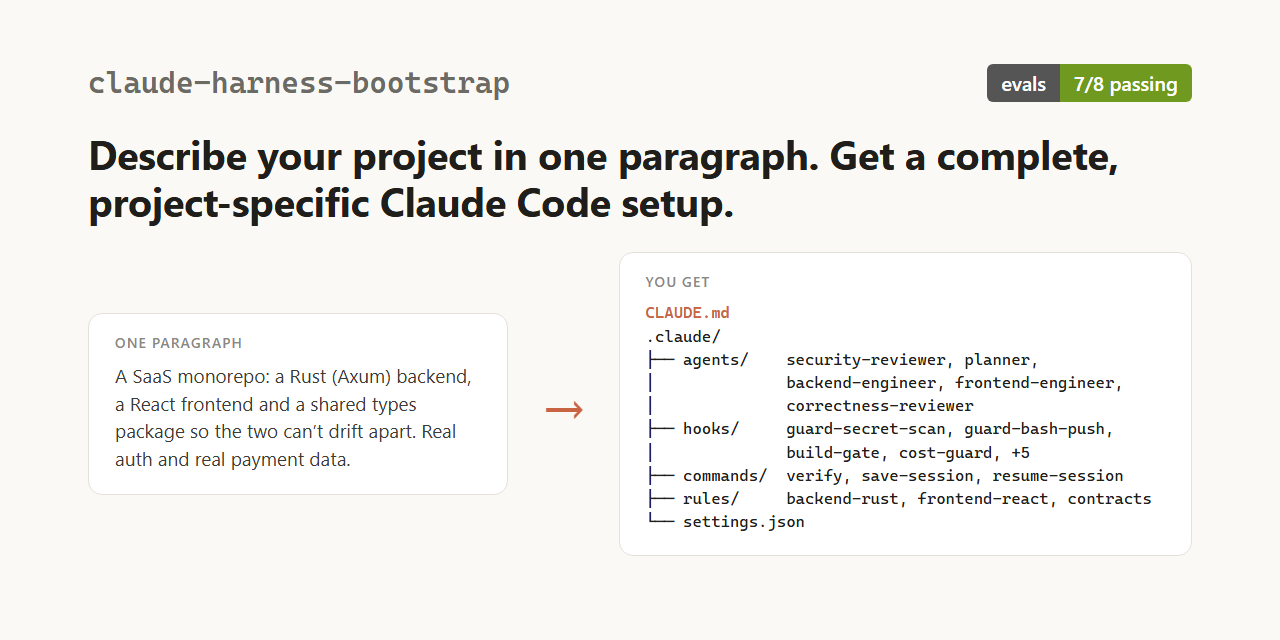
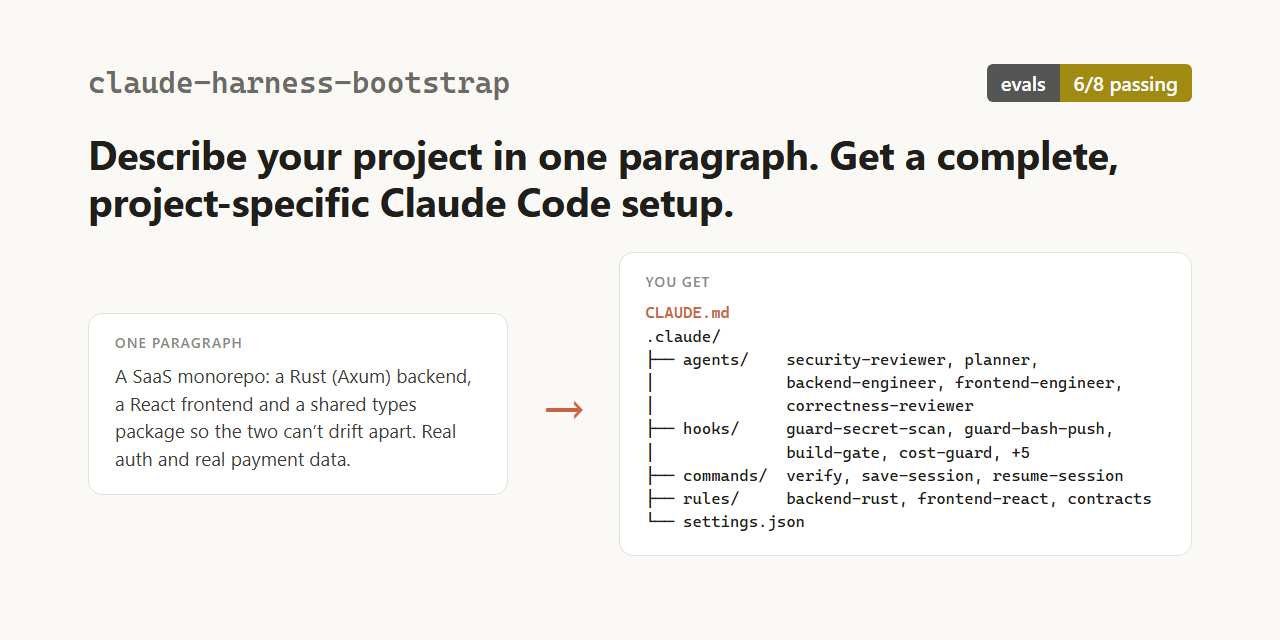
Show the real eval result: 6 of 8, with plugin-vs-baseline per case
The README's eval table now gives each case's result and whether the plugin
changes the outcome versus plain Claude Code (it does in 3), explains the two
failures, and notes that .claude/ contents are shown in examples/ because eval
runs can't write there. CHANGELOG 0.6.0 records the vague-description fix and
the eval changes.

Changed region(s): [[0.7812, 0.0938, 0.9375, 0.1562]]

diff --git a/docs/social-preview.html b/docs/social-preview.html
@@ -3,7 +3,7 @@
 <head>
 <meta charset="utf-8">
 <title>claude-harness-bootstrap social preview</title>
-<!-- 1280x640 GitHub social preview. Render: see docs/render-social-preview.mjs -->
+<!-- 1280x640 GitHub social preview. Render: chrome --headless --hide-scrollbars --window-size=1280,640 --screenshot=docs/social-preview.png docs/social-preview.html -->
 <style>
   * { box-sizing: border-box; margin: 0; }
   html, body { width: 1280px; height: 640px; overflow: hidden; }
@@ -31,11 +31,11 @@
   .badge { display: inline-flex; font: 600 20px/1 "Segoe UI", Arial, sans-serif; border-radius: 6px; overflow: hidden; }
   .badge span { padding: 9px 14px; }
   .badge span:first-child { background: #555; color: #fff; }
-  .badge span:last-child { background: #6f9a1f; color: #fff; }
+  .badge span:last-child { background: #a08a12; color: #fff; }
 </style>
 </head>
 <body>
-  <div class="top"><div class="name">claude-harness-bootstrap</div><div class="badge"><span>evals</span><span>7/8 passing</span></div></div>
+  <div class="top"><div class="name">claude-harness-bootstrap</div><div class="badge"><span>evals</span><span>6/8 passing</span></div></div>
   <h1>Describe your project in one paragraph. Get a complete, project-specific Claude Code setup.</h1>
   <div class="flow">
     <div class="card para"><span class="label">One paragraph</span>A SaaS monorepo: a Rust (Axum) backend, a React frontend and a shared types package so the two can’t drift apart. Real auth and real payment data.</div>

diff --git a/README.md b/README.md
@@ -2,7 +2,7 @@
 
 [![License: MIT](https://img.shields.io/badge/license-MIT-blue.svg)](LICENSE)
 [![Latest release](https://img.shields.io/github/v/release/sagaga144/claude-harness-bootstrap)](https://github.com/sagaga144/claude-harness-bootstrap/releases)
-[![evals: 7/8 passing](https://img.shields.io/badge/evals-7%2F8%20passing-yellowgreen.svg)](#tested-not-just-prompted)
+[![evals: 6/8 passing](https://img.shields.io/badge/evals-6%2F8%20passing-yellow.svg)](#tested-not-just-prompted)
 [![Claude Code plugin](https://img.shields.io/badge/Claude%20Code-plugin-d97757.svg)](https://claude.com/claude-code)
 
 Describe your project in one paragraph. Get a complete, project-specific Claude Code
@@ -85,19 +85,35 @@ harness.
 
 The plugin ships with an eval suite in [`plugin/evals/`](plugin/evals/). Each case is a
 real Claude Code session that gets a project description, with graders that check what
-came out. On the latest full run (v0.6.0, Claude Code 2.1.289, 2026-10-04), 7 of 8 pass
-with the plugin loaded. The one that doesn't is marked below.
+came out. Each case also runs once without the plugin, for comparison.
 
-| Case | What it proves |
-|---|---|
-| `web-app-auth-db` | An authenticated web app with a database gets a security reviewer, a persistence guard and a secret-scan hook, and no semver reviewer. |
-| `cli-no-ui-no-persistence` | A local-files CLI gets no UI reviewer and no persistence guard, its dev commands match its real toolchain, and `CLAUDE.md` stays lean with no placeholders. |
-| `published-library-semver` | A library published to PyPI gets a semver / breaking-change reviewer. |
-| `retrofit-existing-repo` | On an existing repo with a harness already in place, it keeps the existing agent and `CLAUDE.md` and follows the repo's own conventions. |
-| `two-guided-questions` | The two setup questions (cost, scope) actually get asked. |
-| `cost-low-caps-models` | Asking to keep cost low means no agent runs on Opus. |
-| `vague-description` | "I want to build an app" gets either one clearly flagged assumption or a clarifying question, not a pile of confident guesses. **Currently failing:** it flags its assumption, but the assumption is a very specific stack. |
-| `self-triggers-on-bare-description` | A plain project description, with no mention of Claude Code or setup, is enough to start it. |
+**Latest result (v0.6.0, Claude Code 2.1.289, 2026-10-05): 6 of 8 pass.** 8 cases. In 3 of
+them the plugin changes the outcome versus plain Claude Code; the rest are regression
+guards. Eval runs can't write into `.claude/`, so the generated agents and hooks are
+shown in [`examples/`](examples/) rather than graded.
+
+| Case | What it checks | Result | Plugin vs. plain Claude Code |
+|---|---|---|---|
+| `self-triggers-on-bare-description` | A plain project description, with no mention of Claude Code or setup, is enough to start it. | pass | changes the outcome |
+| `two-guided-questions` | The two setup questions (cost, scope) actually get asked. | pass | changes the outcome |
+| `cli-no-ui-no-persistence` | A local-files CLI gets no UI reviewer or persistence guard, dev commands match its toolchain, `CLAUDE.md` stays lean, and it tries to build the `.claude/` tree. | pass | changes the outcome (plain Claude Code doesn't try to build `.claude/`) |
+| `published-library-semver` | A library published to PyPI gets a semver / breaking-change reviewer. | pass | same |
+| `retrofit-existing-repo` | On a repo with a harness already in place, it keeps the existing agent and `CLAUDE.md` and follows the repo's own conventions. | pass | same |
+| `cost-low-caps-models` | Asking to keep cost low means no agent runs on Opus. | pass | same |
+| `web-app-auth-db` | An authenticated web app with a database gets a security reviewer and a dedicated persistence guard, a secret scan, and no semver reviewer. | **fail** | same (both fail) |
+| `vague-description` | "I want to build an app" gets one flagged assumption or one question, not a pile of confident guesses, and `CLAUDE.md` never describes files that weren't written. | **fail** (passed 3 of 5 runs) | same (both fail) |
+
+Why the two fail:
+
+- **`web-app-auth-db`**: with "essentials only" chosen, it plans a security reviewer but
+  covers the database with a hook instead of a dedicated persistence agent, which this
+  case requires.
+- **`vague-description`**: the plugin now builds a stack-neutral harness when no app type
+  is given. But before the plugin loads, Claude Code itself sometimes announces a guessed
+  stack, and the judge counts that against it.
+
+Six cases come from one full run. A usage limit cut off the last two, so those were run
+again on their own, on the same code.
 
 Run them from the repo root:
 
@@ -105,12 +121,9 @@ Run them from the repo root:
 claude plugin eval ./plugin --scaffold --allow-tools Write Edit
 ```
 
-This also runs a no-plugin baseline for comparison. `--scaffold` lets
-`retrofit-existing-repo` build its fixture repo, and `--allow-tools Write Edit` lets runs
-write the `CLAUDE.md` the graders check. The graders check `CLAUDE.md` and the
-transcript, not the `.claude/` tree: Claude Code doesn't let a non-interactive run write
-there. Each case is a full session on your own
-account, so add `--runs 1` or `--case <name>` to keep it cheap. More in
+`--scaffold` lets `retrofit-existing-repo` build its fixture repo, and
+`--allow-tools Write Edit` lets runs write the `CLAUDE.md` the graders check. Each case is
+a full session on your own account; use `--case <name>` to run one. More in
 [CONTRIBUTING.md](CONTRIBUTING.md#run-the-evals).
 
 **What it caught.** The README always said you could just describe a project. The first

diff --git a/CHANGELOG.md b/CHANGELOG.md
@@ -1,8 +1,9 @@
 # Changelog
 
-## 0.6.0 (2026-10-04)
+## 0.6.0 (2026-10-05)
 
-No change to what the plugin generates. This release is about showing it.
+Mostly about showing what the plugin generates, plus one behavior fix found while
+re-running the evals.
 
 - **Real example outputs** in [`examples/`](examples/): seven complete harnesses from the
   v0.5.x test rounds (SaaS monorepo, Terraform on AWS, game server, Solidity, JUCE audio
@@ -12,9 +13,25 @@ No change to what the plugin generates. This release is about showing it.
 - **Community files**: `CONTRIBUTING.md` (local testing, running the evals, the most
   wanted contributions), `SECURITY.md`, and issue forms for bugs and new project shapes.
 - Shorter plugin description in the marketplace listing.
-- Re-ran the full eval suite on Claude Code 2.1.289: 7 of 8 pass. `vague-description` now
-  fails: given only "I want to build an app", the skill flags its assumption but assumes a
-  very specific stack. The eval command now needs `--allow-tools Write Edit`.
+
+**Fixes**
+
+- A description that names no app type ("I want to build an app") no longer gets a
+  made-up stack. The skill asks one question, "what kind of app is this?". With no answer
+  possible, it builds a stack-neutral minimal harness: push guard and secret scan only.
+- `CLAUDE.md` never describes files that don't exist. If writes into `.claude/` are
+  denied (you can refuse that permission prompt), `CLAUDE.md` lists only what was
+  written, and the closing message names each planned file that's missing and why.
+
+**Evals**
+
+- The command now needs `--allow-tools Write Edit`. Eval runs still can't write into
+  `.claude/`, so new graders check that those writes were attempted, and that `CLAUDE.md`
+  doesn't describe files that were never written.
+- Latest result on Claude Code 2.1.289: 6 of 8 pass. `web-app-auth-db` fails (no
+  dedicated persistence agent under "essentials only"). `vague-description` fails
+  sometimes (3 of 5 runs passed): Claude Code can announce a guessed stack before the
+  plugin loads.
 
 ## 0.5.9 (2026-09-20)
 

diff --git a/CONTRIBUTING.md b/CONTRIBUTING.md
@@ -38,14 +38,15 @@ claude plugin eval ./plugin --scaffold --allow-tools Write Edit
 That runs every case with the plugin loaded, plus a no-plugin baseline for comparison.
 Useful flags:
 
-- `--case <name>` runs one case, e.g. `--case web-app-auth-db`.
+- `--case <name>` runs one case, e.g. `--case web-app-auth-db`. Only one `--case` is
+  used per command, so run cases one at a time.
 - `--runs 3` repeats each case for a steadier score (the cases default to one run).
 - `--max-cost-usd <n>` sets a hard spending ceiling.
 - `--scaffold` is needed for `retrofit-existing-repo`, which builds a fixture repo with
   `fixture.sh`.
 - `--allow-tools Write Edit` lets a run write `CLAUDE.md`. Without it, every grader that
   reads `CLAUDE.md` fails. Writes into `.claude/` stay blocked in eval runs either way, so
-  no case grades that tree.
+  graders check only that those writes were attempted, not the files themselves.
 
 Each run is a full Claude Code session on your own account, so a full suite costs real
 usage. Results go to `plugin/evals/results/` (gitignored).
